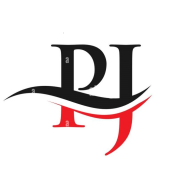
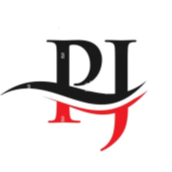
color up

diff --git a/_sass/_themes.scss b/_sass/_themes.scss
@@ -3,7 +3,7 @@
  ******************************************************************************/
 
 :root {
-  --global-bg-color: rgb(223, 225, 230);
+  --global-bg-color: rgb(255, 255, 255);
   --global-code-bg-color: #{$code-bg-color-light};
   --global-text-color: #{$black-color};
   --global-text-color-light: #{$grey-color};
